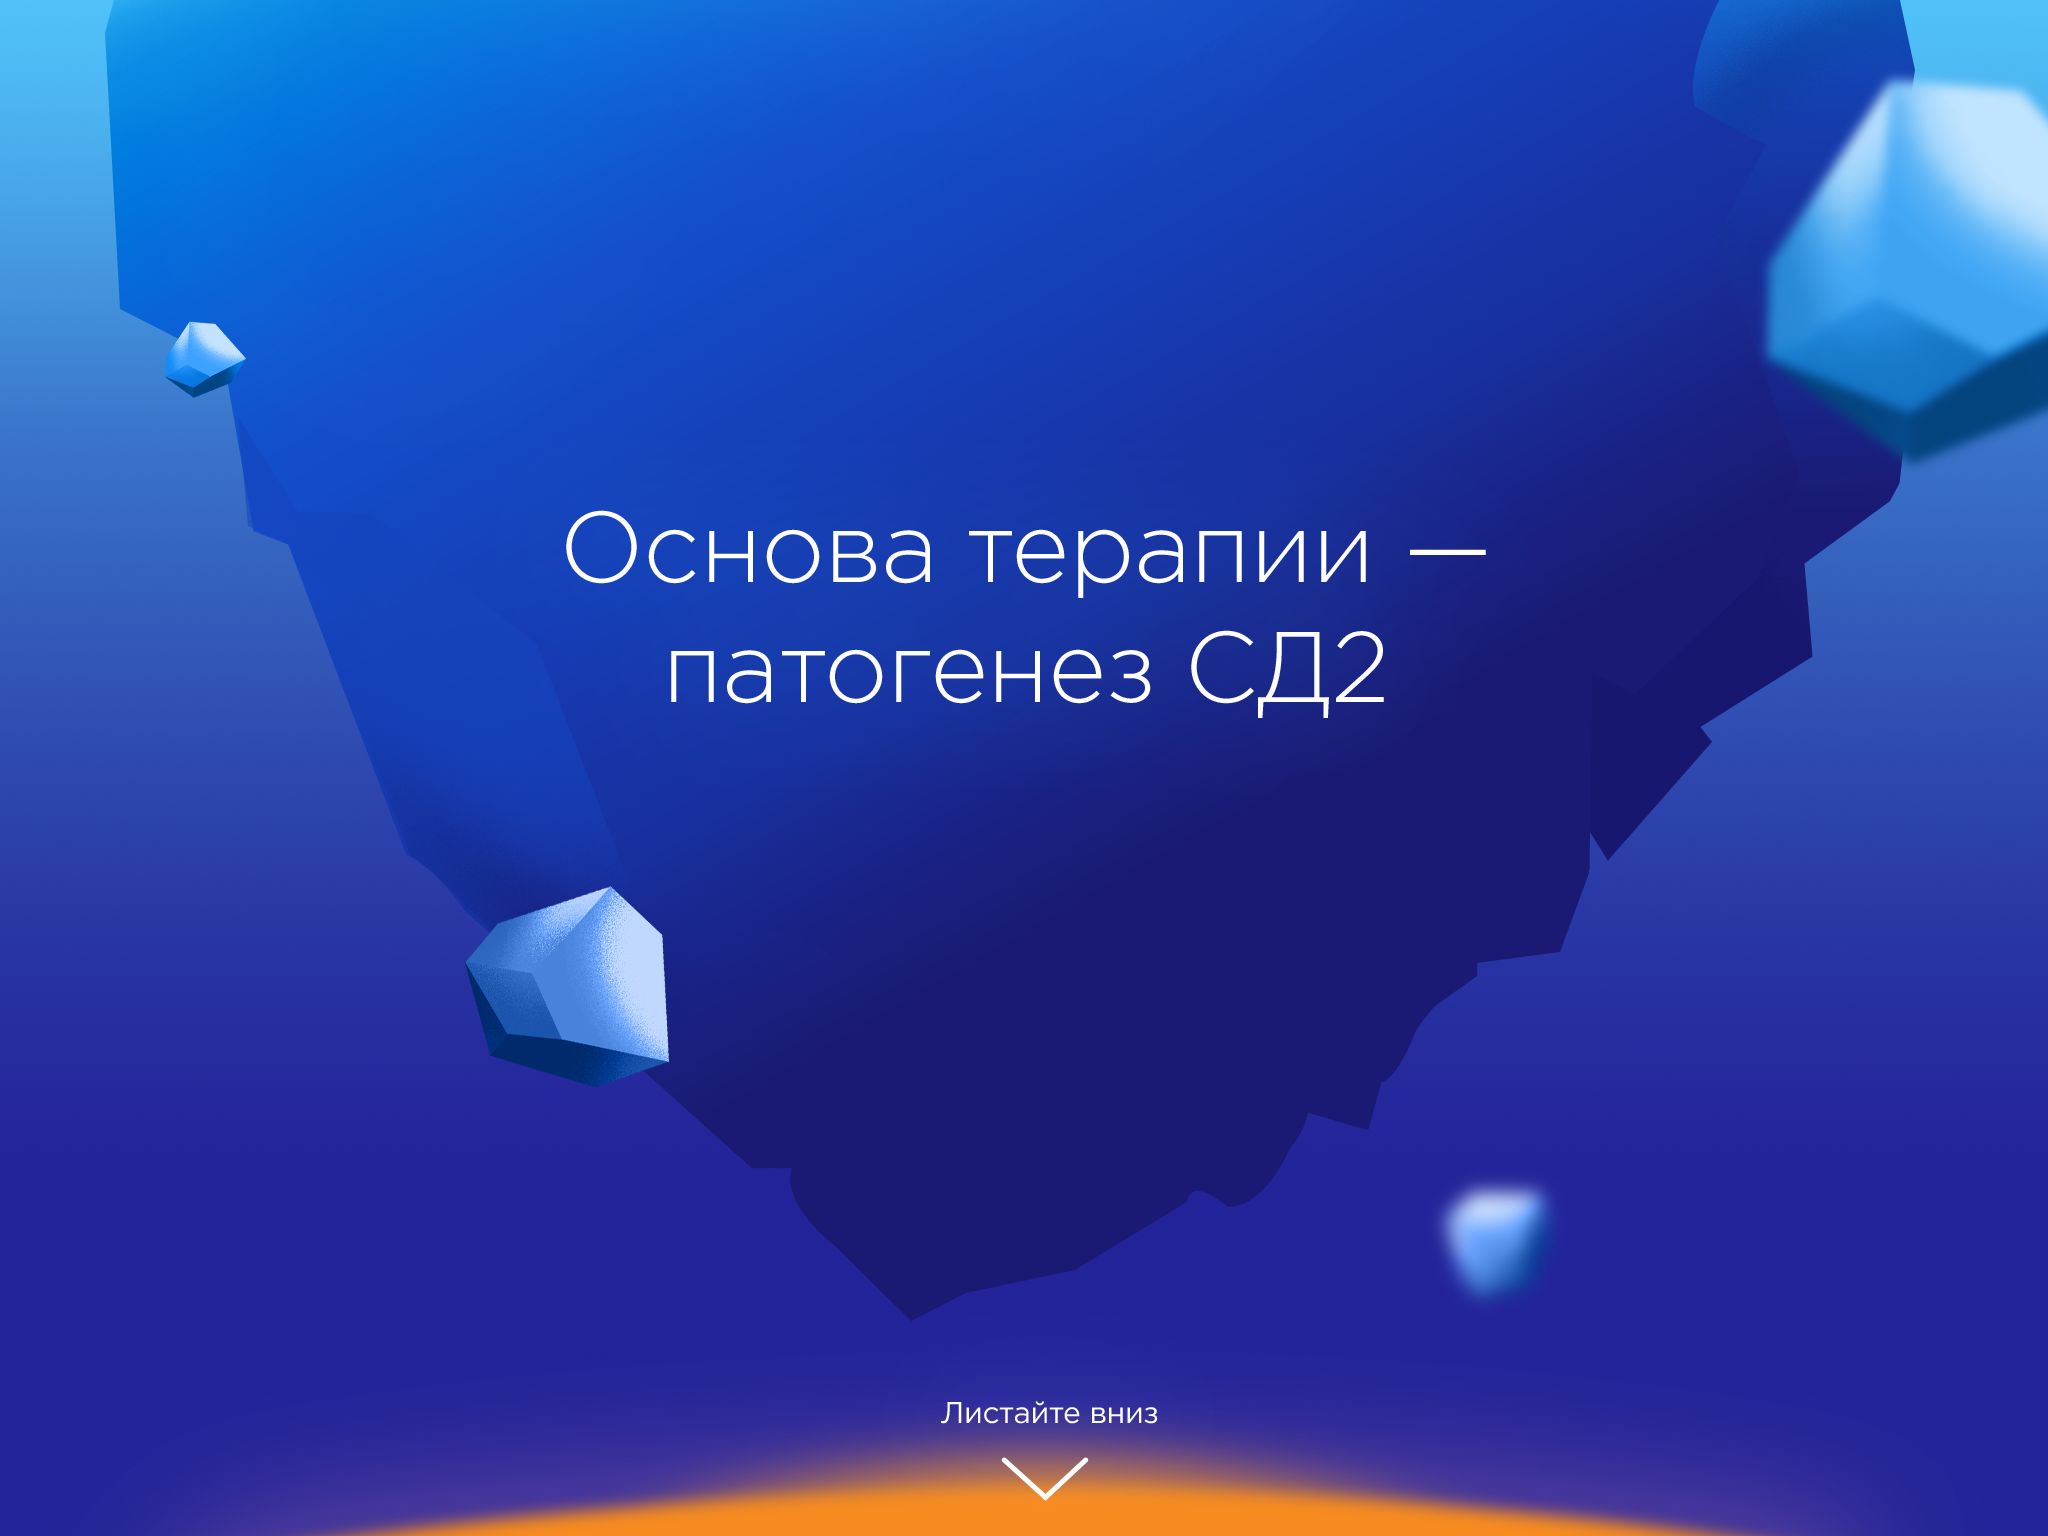
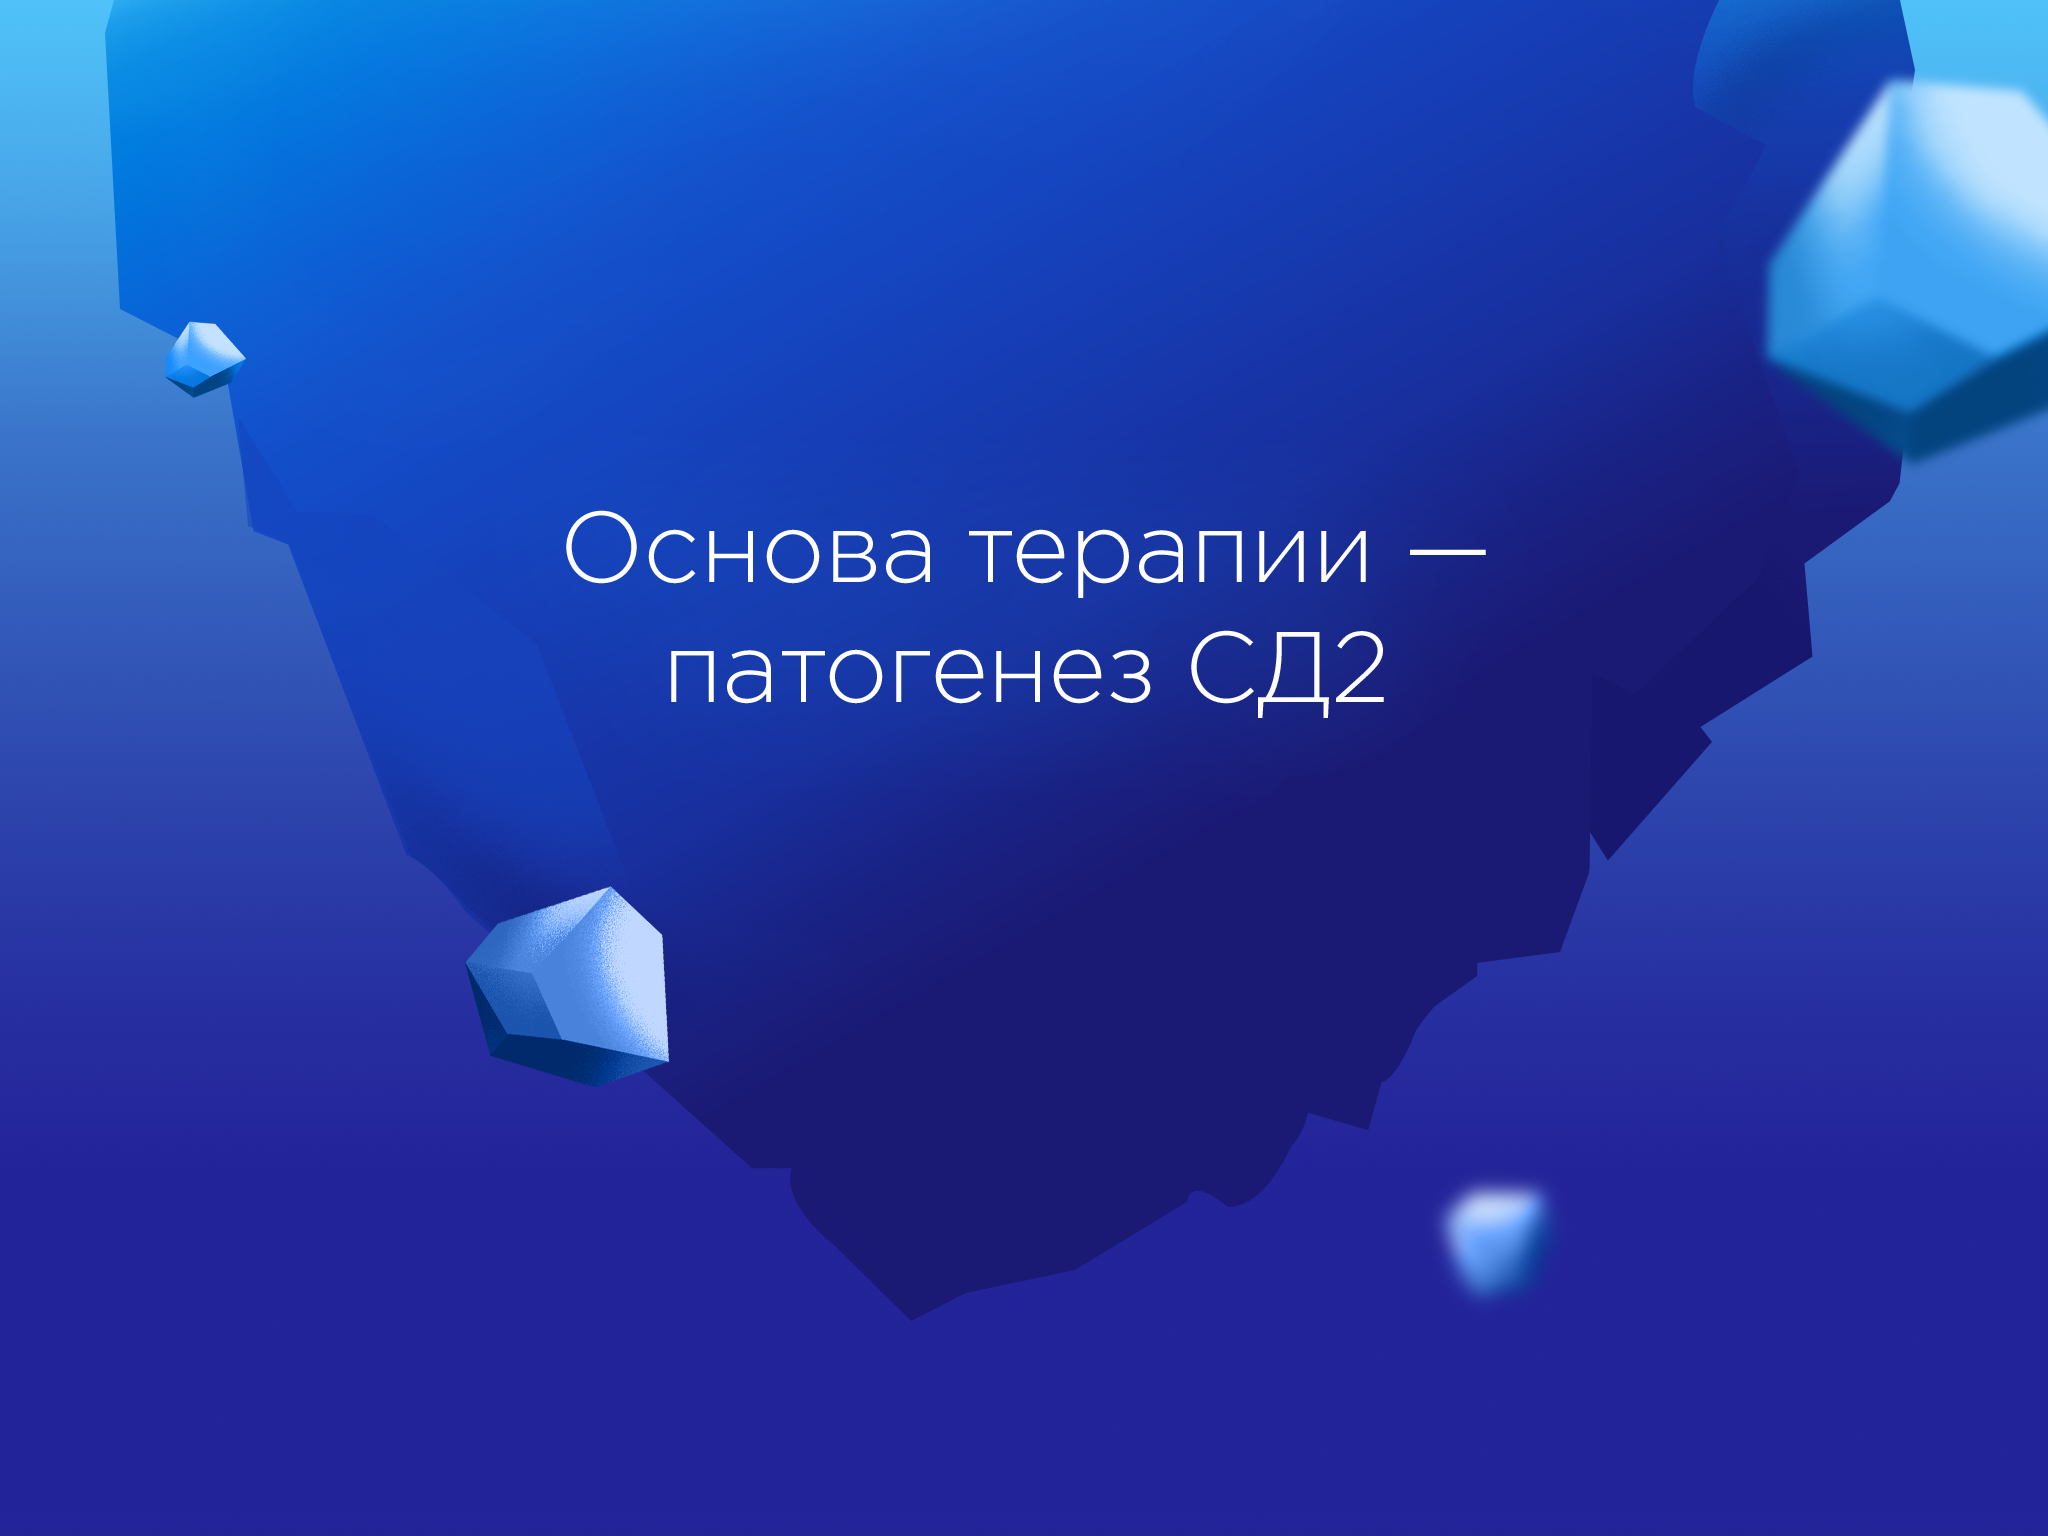
add bottom arrow

Changed region(s): [[0.0938, 0.9062, 0.9062, 1.0]]

diff --git a/project1/index.html b/project1/index.html
@@ -6,17 +6,20 @@
     <title></title>
 </head>
 <body style="padding:0px; margin:0px; background-color:#fff;font-family:arial,helvetica,sans-serif,verdana,'Open Sans'">
-
+ 
     <!-- #region Jssor Slider Begin -->
     <!-- Generator: Jssor Slider Maker -->
     <!-- Source: https://www.jssor.com -->
     <script src="js/jssor.slider-27.5.0.min.js" type="text/javascript"></script>
     <script type="text/javascript">
+	
         jssor_1_slider_init = function() {
 
             var jssor_1_options = {
-              $Idle: 2000,
-              $SlideEasing: $Jease$.$InOutSine,
+			$FillMode: 1,
+			$Loop: 0,
+ //             $Idle: 2000,
+ //             $SlideEasing: $Jease$.$InOutSine,
               $DragOrientation: 2,
               $PlayOrientation: 2,
   //            $ArrowNavigatorOptions: {
@@ -49,11 +52,19 @@
                     0.1: flex mode, allow up to 10% to bleed outside, this is better way to make full window slider, especially for mobile devices
             */
 
-            var MAX_WIDTH = 3000;
-            var MAX_HEIGHT = 3000;
+            var MAX_WIDTH = 30000;
+            var MAX_HEIGHT = 30000;
             var MAX_BLEEDING = 1;
-
+function CheckSlide(){
+setInterval(
+     function(){
+	 var slideIndex = jssor_1_slider.$CurrentIndex();
+	 if (slideIndex == 2){document.getElementById("botArrow").style.display = "none"; }else{document.getElementById("botArrow").style.display = "block";}
+},
+     100  /* 10000 ms = 10 sec */
+);}
             function ScaleSlider() {
+			    CheckSlide()
                 var containerElement = jssor_1_slider.$Elmt.parentNode;
                 var containerWidth = containerElement.clientWidth;
 
@@ -67,7 +78,7 @@
                     var expectedHeight = Math.min(MAX_HEIGHT || containerHeight, containerHeight);
 
                     //scale the slider to expected size
-                    jssor_1_slider.$ScaleSize(expectedWidth, expectedHeight, MAX_BLEEDING);
+                    jssor_1_slider.$ScaleSize(expectedWidth, expectedHeight);
 
                     //position slider at center in vertical orientation
                     jssor_1_slider.$Elmt.style.top = ((containerHeight - expectedHeight) / 2) + "px";
@@ -87,11 +98,14 @@
 
             ScaleSlider();
 
+//            $Jssor$.$AddEvent(window, "click", ScaleSlider);
             $Jssor$.$AddEvent(window, "load", ScaleSlider);
             $Jssor$.$AddEvent(window, "resize", ScaleSlider);
             $Jssor$.$AddEvent(window, "orientationchange", OnOrientationChange);
             /*#endregion responsive code end*/
-        };
+        		
+		};
+
     </script>
     <style>
         html {
@@ -161,10 +175,10 @@ window.onload=function(){
         if( i > 40) {
             ctx.beginPath();
             ctx.arc(50, 50, i-40, 0, 2 * Math.PI, true);
-            ctx.fillStyle = "#FF0033";
+            ctx.fillStyle = "#cb8351";
             ctx.fill();
         }
-        i++;
+        i+=0.25;
         ctx.restore();
         setTimeout(animate1, 10);
     }
@@ -181,10 +195,10 @@ window.onload=function(){
         if( i > 40) {
             ctx.beginPath();
             ctx.arc(50, 50, i-40, 0, 2 * Math.PI, true);
-            ctx.fillStyle = "#FF0033";
+            ctx.fillStyle = "#cb8351";
             ctx.fill();
         }
-        i++;
+        i+=1;
         ctx.restore();
         setTimeout(animate2, 10);
     }
@@ -201,10 +215,10 @@ window.onload=function(){
         if( i > 40) {
             ctx.beginPath();
             ctx.arc(50, 50, i-40, 0, 2 * Math.PI, true);
-            ctx.fillStyle = "#FF0033";
+            ctx.fillStyle = "#cb8351";
             ctx.fill();
         }
-        i++;
+        i+=0.1;
         ctx.restore();
         setTimeout(animate3, 10);
     }
@@ -215,16 +229,16 @@ window.onload=function(){
         var ctx=c.getContext("2d");
         ctx.save();
         ctx.clearRect(0, 0, c.width, c.height);
-        if(i > 60) {
+        if(i > 58) {
             i = 1;
         }
         if( i > 40) {
             ctx.beginPath();
             ctx.arc(50, 50, i-40, 0, 2 * Math.PI, true);
-            ctx.fillStyle = "#FF0033";
+            ctx.fillStyle = "#cb8351";
             ctx.fill();
         }
-        i++;
+        i+=0.8;
         ctx.restore();
         setTimeout(animate4, 10);
     }
@@ -232,15 +246,17 @@ window.onload=function(){
     animate4();
 }//]]>  
 </script>
-    <div style="position:relative;top:0;left:0;width:100%;height:100%;overflow:hidden;">
+ 
+   <div style="position:relative;top:0;left:0;width:100%;height:100%;overflow:hidden;">
         <div id="jssor_1" style="position:relative;margin:0 auto;top:0px;left:0px;width:1024px;height:768px;overflow:hidden;visibility:hidden;">
             <!-- Loading Screen -->
             <div data-u="loading" class="jssorl-009-spin" style="position:absolute;top:0px;left:0px;width:100%;height:100%;text-align:center;background-color:rgba(0,0,0,0.7);">
                 <img style="margin-top:-19px;position:relative;top:50%;width:38px;height:38px;" src="img/spin.svg" />
             </div>
             <div data-u="slides" style="cursor:default;position:relative;top:0px;left:0px;width:1024px;height:768px;overflow:hidden;">
-                <div data-p="267">
-                    <img data-u="image" src="1.png" />
+            
+			  <div data-p="267">
+                 <img data-u="image" src="1.png" />
 					  <canvas id="myCanvas1" width="100" height="100" style="position:absolute;bottom: 25%; left: 76%;" ></canvas>
 					  <canvas id="myCanvas2" width="100" height="100" style="position:absolute;bottom: 22.5%; left: 42.4%;" ></canvas>
 					  <canvas id="myCanvas3" width="100" height="100" style="position:absolute;bottom: 36.5%; left: 23.2%;" ></canvas>
@@ -254,13 +270,17 @@ window.onload=function(){
                 </div>
             </div>
             <!-- Bullet Navigator -->
+
         <div data-u="navigator" class="jssorb064" style="position:absolute;bottom:12px;right:12px;" data-autocenter="2" data-scale="0.5" data-scale-right="0.75">
             <div data-u="prototype" class="i" style="width:12px;height:12px;">
                 <svg viewbox="0 0 16000 16000" style="position:absolute;top:0;left:0;width:100%;height:100%;">
                     <circle class="b" cx="8000" cy="8000" r="5800"></circle>
                 </svg>
-            </div>
+ 
+ </div>
         </div>
+					   					<div id="botArrow" class="botArrow"style="position:absolute;bottom: -8px; left: 166%;display: block;  margin-left: auto;  margin-right: auto;  width: 50%;"> <img src="ref.png" alt="Arrow"	 </div>
+
             <!-- Arrow Navigator --
             <div data-u="arrowleft" class="jssora051" style="width:55px;height:55px;top:0px;left:25px;" data-autocenter="2" data-scale="0.75" data-scale-left="0.75">
                 <svg viewbox="0 0 16000 16000" style="position:absolute;top:0;left:0;width:100%;height:100%;">
@@ -277,4 +297,5 @@ window.onload=function(){
     <script type="text/javascript">jssor_1_slider_init();</script>
     <!-- #endregion Jssor Slider End -->
 </body>
+
 </html>
